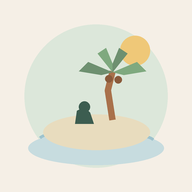
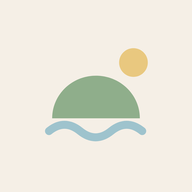
feat: 品牌标识（穹顶小岛+太阳+海浪）替换通用叶子图标
- 新增 i-brand SVG 符号，用于欢迎页品牌章、桌面侧栏、PWA 图标
- 应用图标 192/512/180 全部用新标识重新生成

diff --git a/index.html b/index.html
@@ -49,6 +49,11 @@
     <symbol id="i-sun" viewBox="0 0 24 24" fill="none" stroke="currentColor" stroke-width="1.8" stroke-linecap="round"><circle cx="12" cy="12" r="3.6"/><path d="M12 3.2v2M12 18.8v2M3.2 12h2M18.8 12h2M5.8 5.8l1.4 1.4M16.8 16.8l1.4 1.4M18.2 5.8l-1.4 1.4M7.2 16.8l-1.4 1.4"/></symbol>
     <symbol id="i-sound" viewBox="0 0 24 24" fill="none" stroke="currentColor" stroke-width="1.8" stroke-linecap="round" stroke-linejoin="round"><path d="M11.5 5L7 8.5H4.5v7H7L11.5 19V5z"/><path d="M15 9.6a3.4 3.4 0 0 1 0 4.8"/><path d="M17.3 7.3a6.6 6.6 0 0 1 0 9.4"/></symbol>
     <symbol id="i-rain" viewBox="0 0 24 24" fill="none" stroke="currentColor" stroke-width="1.8" stroke-linecap="round" stroke-linejoin="round"><path d="M7.5 13.5h8.2a3.4 3.4 0 0 0 .8-6.7A4.8 4.8 0 0 0 7.2 7.3a3.3 3.3 0 0 0 .3 6.2z"/><path d="M8.5 16.5l-.9 2.2M12.3 16.5l-.9 2.2M16.1 16.5l-.9 2.2"/></symbol>
+    <symbol id="i-brand" viewBox="0 0 32 32" aria-label="安静成长岛标识">
+      <circle cx="25.4" cy="7.6" r="3.6" fill="#E9C87F"/>
+      <path d="M5 21.6c0-5.9 4.9-10.7 11-10.7s11 4.8 11 10.7z" fill="#8FAE8B"/>
+      <path d="M4.2 24.8c2.6-2.1 5.2-2.1 7.8 0s5.2 2.1 7.8 0 5.2-2.1 7.8 0" stroke="#9EC3CD" stroke-width="2" fill="none" stroke-linecap="round"/>
+    </symbol>
   </defs>
 </svg>
 
@@ -56,7 +61,7 @@
 
   <!-- ========== 原型导航（桌面端） ========== -->
   <aside class="rail" aria-label="原型屏幕导航">
-    <div class="rail-brand"><svg class="ic"><use href="#i-leaf"/></svg><b>安静成长岛</b></div>
+    <div class="rail-brand"><svg class="ic"><use href="#i-brand"/></svg><b>安静成长岛</b></div>
     <div class="rail-sub">QUIET GROWTH ISLAND · UI 原型</div>
     <nav class="rail-list" id="railList"></nav>
     <div class="rail-note">点击画面中的按钮即可体验完整流程；休息、计时等等待已加速演示。</div>
@@ -81,7 +86,7 @@
         <section class="screen" id="scr-welcome" data-name="启动 · 欢迎页">
           <div class="content no-tab">
             <div class="brand-row">
-              <span class="brand-chip"><svg class="ic"><use href="#i-leaf"/></svg>安静成长岛</span>
+              <span class="brand-chip"><svg class="ic" style="width:18px;height:18px"><use href="#i-brand"/></svg>安静成长岛</span>
               <span class="tag-plain">儿童小门</span>
             </div>
             <div class="hero">
